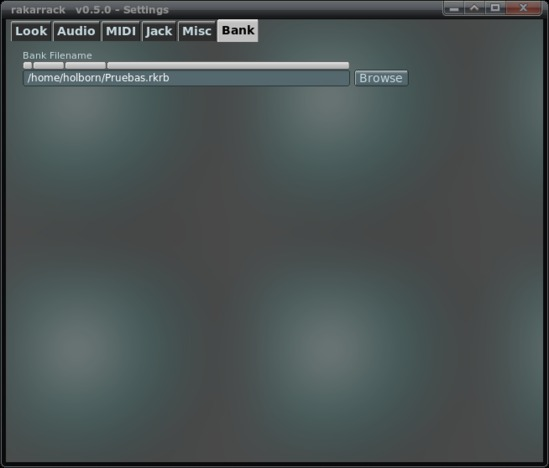
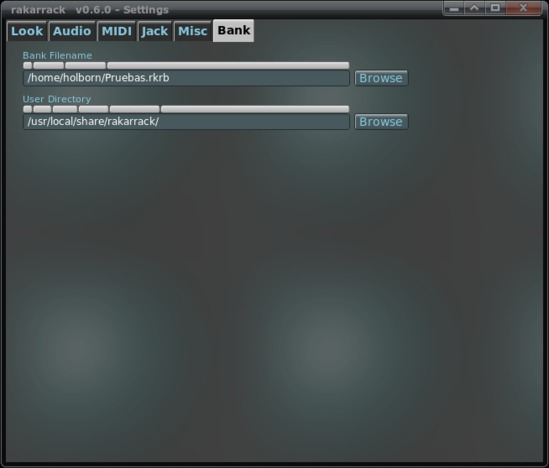
Help updated 	Adjusting step value in widget Recognize Trigger in Settings
modified:   doc/help/general.html
	modified:   doc/help/imagenes/bank_mgmt.jpg
	modified:   doc/help/imagenes/settings1.jpg
	modified:   doc/help/imagenes/settings5.jpg
	modified:   src/rakarrack.cxx
	modified:   src/rakarrack.fl

Changed region(s): [[0.031, 0.2094, 0.7432, 0.2991], [0.0, 0.0299, 0.4954, 0.1496], [0.6503, 0.1496, 0.7432, 0.1795]]

diff --git a/doc/help/general.html b/doc/help/general.html
@@ -374,6 +374,14 @@ Harmonizer effect, that means you need to play a monophonic melody in
 the Key/Chord selected. The harmonizer recognizes what note you play
 and creates a second voice in the Key/Chord selected.</p>
 
+<p>Buttons 1,2,3,U are for fast load banks, the 1,2,3 loads the Default,
+Extra and Extra1 banks released with rakarrack, the "U" button, that means
+user, load the Bank filename defined as default to load in settings.<p>
+
+<p> The choice display the available user banks that you have in the
+directory specified in the User Directory settings, is also a fast way to
+load "user" banks</p>
+
 <p><a href="general.html">General</a></p>
 <p><a href="help.html">Table of Contents</a></p>
 
@@ -577,7 +585,7 @@ allocated when Rakarrack starts, so you will need to restart Rakarrack for
 this to take effect.  If you don't plan to use the Looper, then make this a
 small number so Rakarrack doesn't hog memory you aren't going to use.</p>
 
-<p><b>Harmonizer Quality</b></p>
+<p><b>Harmonizer Quality and StereoHarm Quality</b></p>
 <p>Selects the quality of the harmonizer audio
 engine, used by Harmonizer, Shifter and Sequence effects, the available
 values are "4,8,16,32", the default value is "4". Incrementing the quality
@@ -599,8 +607,8 @@ level down to a reasonable recording level.</p>
 </p>2) If you need a hard limiter to set the maximum to a certain level, this
 may prove to be a useful tool.</p>
 
-<p><b> Harmonizer, Reverbtron, Convolotron, Sequence and Shifter
-Downsample</b></p>
+<p><b> Harmonizer, Reverbtron, Convolotron, Sequence, Shifter, Vocoder and
+StereoHarm Downsample</b></p>
 <p> Here you can select the sample rate that each effect uses internally,
 This can make it possible to use effects with higher CPU demand simply by
 trading bandwidth.  For example, if you are  resampling at 2x or 3x (master
@@ -628,6 +636,12 @@ up/down, then 2x Waveshaper resample with linear up, fastest sinc down.</p>
 <p><b>Tuner Calibration A440</b></p>
 <p> Here you can calibrate the Tuner, this also calibrates the MIDI
 Converter, Ring and Harmonizer recognize note functions.</p>
+<p><b>Recognize Note Trigger</b></p>
+<p>This is the trigger for the Recognize Note function used in Harmonizer,
+StereoHarm and Ring, default value is ".6" but maybe you can get better
+results if you down dis value. The note recognition dependes also of the
+input level signal, you need to find a good balance between this value and
+the input signal level.</p>
 
 <p><a href="general.html">General</a></p>
 <p><a href="help.html">Table of Contents</a></p>
@@ -706,6 +720,10 @@ last signal, Tap Tempo is put to Off</p>
 <p><b>Bank</b></p>
 <p>Here you can specify which file bank is loaded when
 program starts.</p>
+<p><b>User Directory<b><p>
+<p>You can define here the driectory where rakarrack will look to find user
+banks that will be displayed in the Bank Window "User Banks" choice, in
+order to have a fast way to load user banks</p>
 
 <p><a href="general.html">General</a></p>
 <p><a href="help.html">Table of Contents</a></p>
